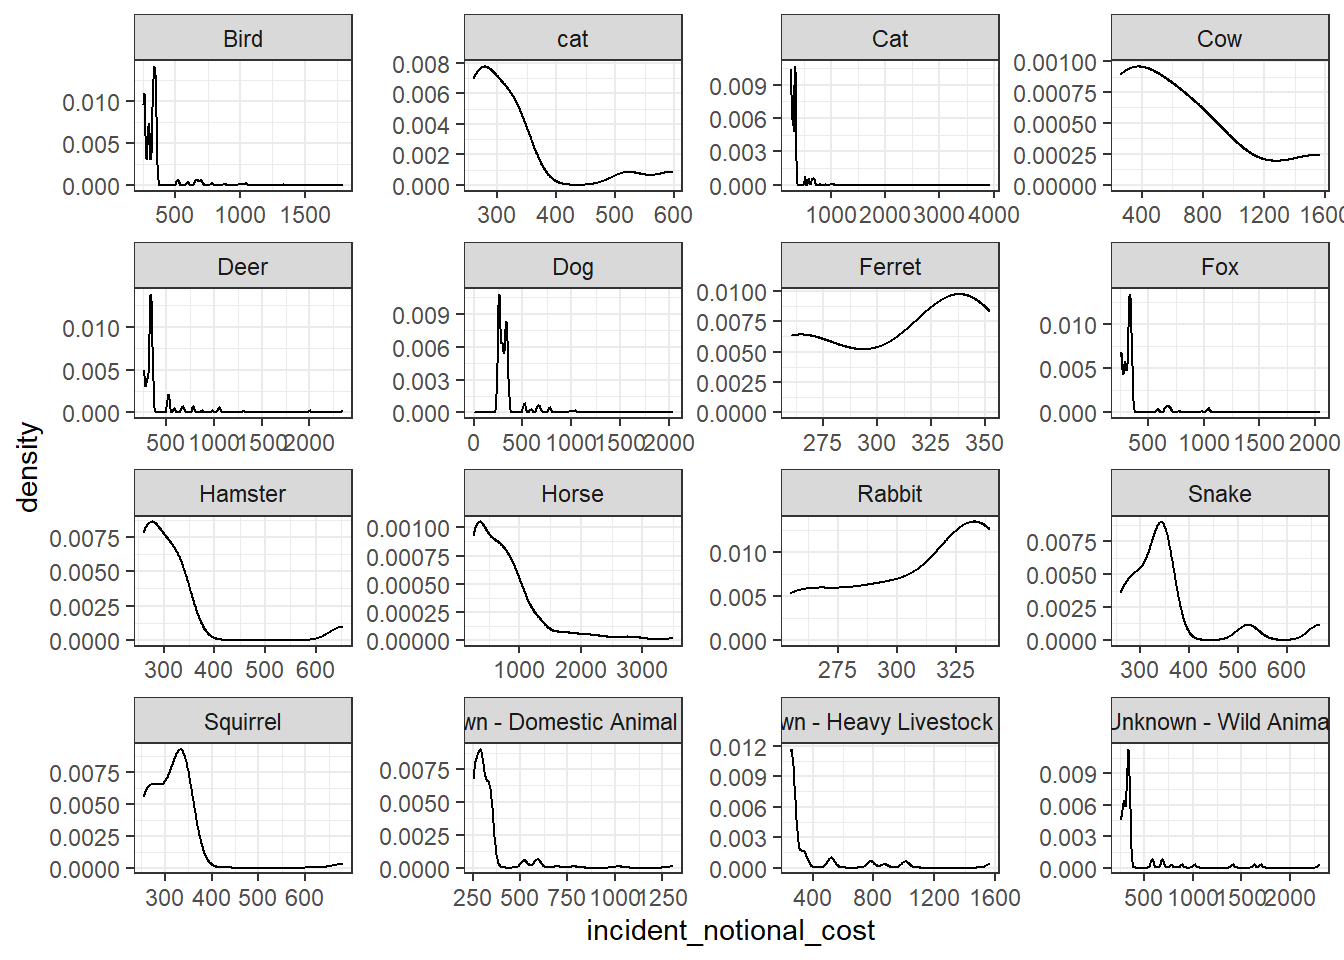
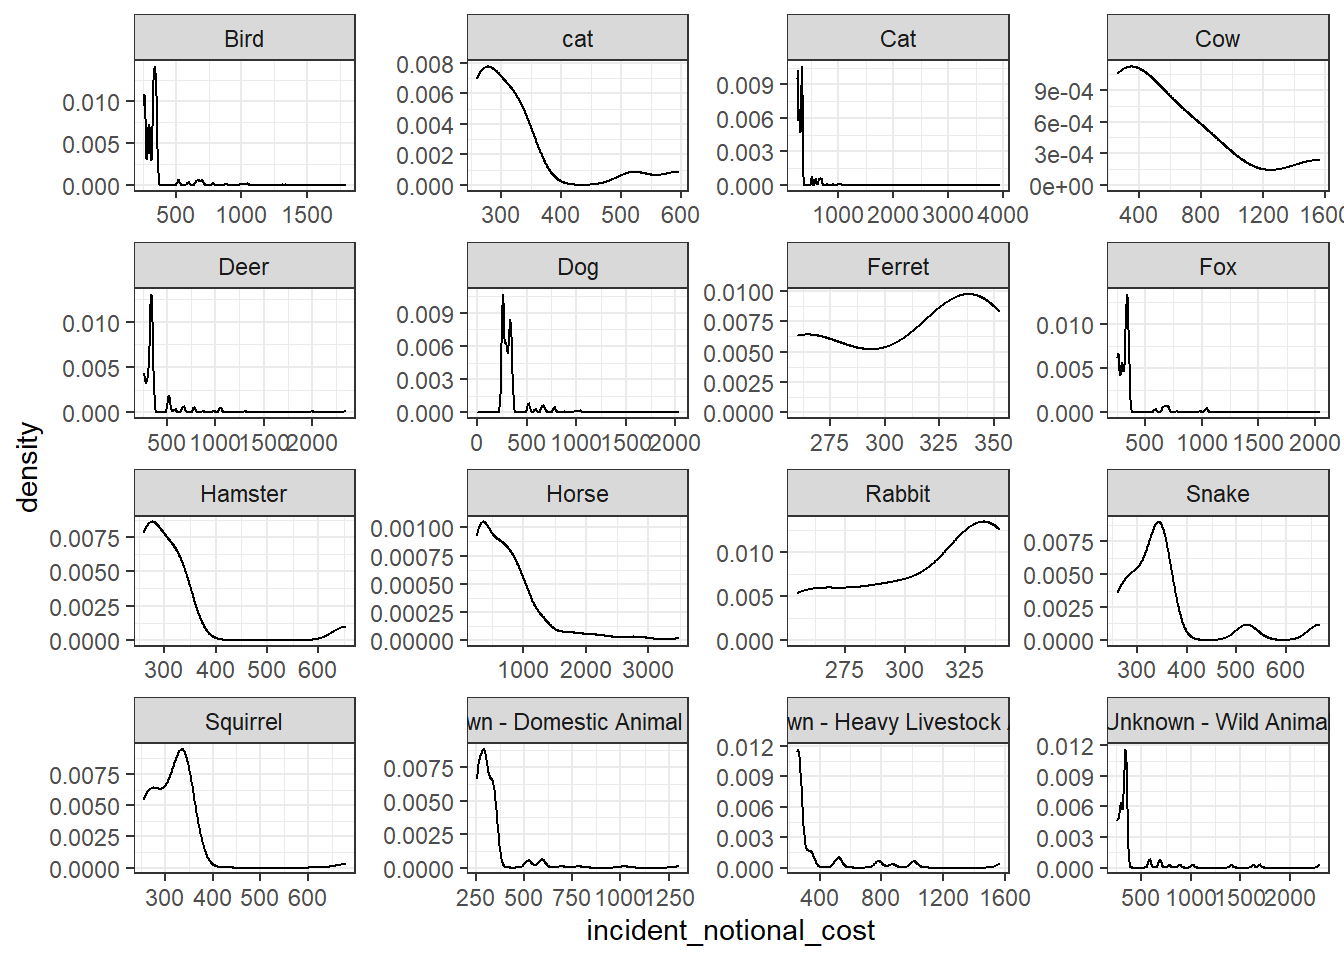
change

diff --git a/content/blogs/Chuhan_Zhang_pre_programme_assignment.html b/content/blogs/Chuhan_Zhang_pre_programme_assignment.html
@@ -2,13 +2,11 @@
 categories:
 - ""
 - ""
-date: "2017-10-31T22:42:51-05:00"
-description: Nullam et orci eu lorem consequat tincidunt vivamus et sagittis magna
-  sed nunc rhoncus condimentum sem. In efficitur ligula tate urna. Maecenas massa
-  sed magna lacinia magna pellentesque lorem ipsum dolor. Nullam et orci eu lorem
-  consequat tincidunt. Vivamus et sagittis tempus.
+date: "2017-10-31T21:28:43-05:00"
+description: Look at my first data analytics project at LBS!
 draft: false
 keywords: ""
+image: pic07.jpg
 slug: pre_programme
 title: Pre-programme project
 ---
@@ -176,7 +174,7 @@ animal_rescue &lt;- read_csv(url,
 
 
 glimpse(animal_rescue)</code></pre>
-<pre><code>## Rows: 7,772
+<pre><code>## Rows: 7,873
 ## Columns: 31
 ## $ incident_number               &lt;chr&gt; &quot;139091&quot;, &quot;275091&quot;, &quot;2075091&quot;, &quot;2872091&quot;~
 ## $ date_time_of_call             &lt;chr&gt; &quot;01/01/2009 03:01&quot;, &quot;01/01/2009 08:51&quot;, ~
@@ -199,9 +197,9 @@ glimpse(animal_rescue)</code></pre>
 ## $ borough_code                  &lt;chr&gt; &quot;E09000008&quot;, &quot;E09000008&quot;, &quot;E09000029&quot;, &quot;~
 ## $ borough                       &lt;chr&gt; &quot;Croydon&quot;, &quot;Croydon&quot;, &quot;Sutton&quot;, &quot;Hilling~
 ## $ stn_ground_name               &lt;chr&gt; &quot;Norbury&quot;, &quot;Woodside&quot;, &quot;Wallington&quot;, &quot;Ru~
-## $ uprn                          &lt;chr&gt; &quot;NULL&quot;, &quot;NULL&quot;, &quot;NULL&quot;, &quot;100021491149&quot;, ~
+## $ uprn                          &lt;chr&gt; &quot;NULL&quot;, &quot;NULL&quot;, &quot;NULL&quot;, &quot;100021491149.00~
 ## $ street                        &lt;chr&gt; &quot;Waddington Way&quot;, &quot;Grasmere Road&quot;, &quot;Mill~
-## $ usrn                          &lt;chr&gt; &quot;20500146&quot;, &quot;NULL&quot;, &quot;NULL&quot;, &quot;21401484&quot;, ~
+## $ usrn                          &lt;chr&gt; &quot;20500146.00&quot;, &quot;NULL&quot;, &quot;NULL&quot;, &quot;21401484~
 ## $ postcode_district             &lt;chr&gt; &quot;SE19&quot;, &quot;SE25&quot;, &quot;SM5&quot;, &quot;UB9&quot;, &quot;RM3&quot;, &quot;RM~
 ## $ easting_m                     &lt;chr&gt; &quot;NULL&quot;, &quot;534785&quot;, &quot;528041&quot;, &quot;504689&quot;, &quot;N~
 ## $ northing_m                    &lt;chr&gt; &quot;NULL&quot;, &quot;167546&quot;, &quot;164923&quot;, &quot;190685&quot;, &quot;N~
@@ -228,7 +226,7 @@ glimpse(animal_rescue)</code></pre>
 ## 10     2018   610
 ## 11     2019   604
 ## 12     2020   758
-## 13     2021   547</code></pre>
+## 13     2021   648</code></pre>
 <pre class="r"><code>animal_rescue %&gt;% 
   count(cal_year, name=&quot;count&quot;)</code></pre>
 <pre><code>## # A tibble: 13 x 2
@@ -246,7 +244,7 @@ glimpse(animal_rescue)</code></pre>
 ## 10     2018   610
 ## 11     2019   604
 ## 12     2020   758
-## 13     2021   547</code></pre>
+## 13     2021   648</code></pre>
 <p>Let us try to see how many incidents we have by animal group. Again, we can do this either using group_by() and summarise(), or by using count()</p>
 <pre class="r"><code>animal_rescue %&gt;% 
   group_by(animal_group_parent) %&gt;% 
@@ -263,15 +261,15 @@ glimpse(animal_rescue)</code></pre>
 <pre><code>## # A tibble: 28 x 3
 ##    animal_group_parent              count percent
 ##    &lt;chr&gt;                            &lt;int&gt;   &lt;dbl&gt;
-##  1 Cat                               3736   48.1 
-##  2 Bird                              1611   20.7 
-##  3 Dog                               1213   15.6 
-##  4 Fox                                366    4.71
-##  5 Unknown - Domestic Animal Or Pet   199    2.56
-##  6 Horse                              195    2.51
-##  7 Deer                               132    1.7 
-##  8 Unknown - Wild Animal               93    1.2 
-##  9 Squirrel                            66    0.85
+##  1 Cat                               3783   48.0 
+##  2 Bird                              1631   20.7 
+##  3 Dog                               1230   15.6 
+##  4 Fox                                373    4.74
+##  5 Unknown - Domestic Animal Or Pet   201    2.55
+##  6 Horse                              195    2.48
+##  7 Deer                               136    1.73
+##  8 Unknown - Wild Animal               94    1.19
+##  9 Squirrel                            68    0.86
 ## 10 Unknown - Heavy Livestock Animal    50    0.64
 ## # ... with 18 more rows</code></pre>
 <pre class="r"><code>animal_rescue %&gt;% 
@@ -284,15 +282,15 @@ glimpse(animal_rescue)</code></pre>
 <pre><code>## # A tibble: 28 x 3
 ##    animal_group_parent              count percent
 ##    &lt;chr&gt;                            &lt;int&gt;   &lt;dbl&gt;
-##  1 Cat                               3736   48.1 
-##  2 Bird                              1611   20.7 
-##  3 Dog                               1213   15.6 
-##  4 Fox                                366    4.71
-##  5 Unknown - Domestic Animal Or Pet   199    2.56
-##  6 Horse                              195    2.51
-##  7 Deer                               132    1.7 
-##  8 Unknown - Wild Animal               93    1.2 
-##  9 Squirrel                            66    0.85
+##  1 Cat                               3783   48.0 
+##  2 Bird                              1631   20.7 
+##  3 Dog                               1230   15.6 
+##  4 Fox                                373    4.74
+##  5 Unknown - Domestic Animal Or Pet   201    2.55
+##  6 Horse                              195    2.48
+##  7 Deer                               136    1.73
+##  8 Unknown - Wild Animal               94    1.19
+##  9 Squirrel                            68    0.86
 ## 10 Unknown - Heavy Livestock Animal    50    0.64
 ## # ... with 18 more rows</code></pre>
 <p>Do you see anything strange in these tables?</p>

diff --git a/content/blogs/blog2.html b/content/blogs/blog2.html
@@ -1,0 +1,49 @@
+---
+categories:
+- ""
+- ""
+date: "2017-10-31T21:28:43-05:00"
+description: My first month at London 
+draft: false
+image: pic12.jpg
+keywords: ""
+slug: my_life
+title: My first month at London
+---
+
+<script src="/rmarkdown-libs/header-attrs/header-attrs.js"></script>
+
+
+<p>My life at London begin at 28th August…</p>
+<div id="leaving-china" class="section level3">
+<h3>Leaving China</h3>
+<p><img src="/img/blogs/plane.jpg" width="60%" /></p>
+</div>
+<div id="welcome-to-the-orientation-at-lbs" class="section level3">
+<h3>Welcome to the orientation at LBS!</h3>
+<p><img src="/img/blogs/orientation.jpg" width="60%" /></p>
+</div>
+<div id="bus-tour" class="section level3">
+<h3>Bus tour!</h3>
+<p><img src="/img/blogs/bus.jpg" width="60%" /></p>
+</div>
+<div id="english-breakfast" class="section level3">
+<h3>English breakfast</h3>
+<p><img src="/img/blogs/brunch.jpg" width="60%" /></p>
+</div>
+<div id="standing-towards-the-garden-and-listening-the-songs-in-rain" class="section level3">
+<h3>Standing towards the garden and listening the songs in rain</h3>
+<p><img src="/img/blogs/grass.jpg" width="60%" /></p>
+</div>
+<div id="london-eye" class="section level3">
+<h3>London eye</h3>
+<p><img src="/img/blogs/london_eye.jpg" width="60%" /></p>
+</div>
+<div id="london-bridge" class="section level3">
+<h3>London bridge!</h3>
+<p><img src="/img/blogs/bridge.jpg" width="60%" /></p>
+</div>
+<div id="first-photo-with-friends" class="section level3">
+<h3>First photo with friends</h3>
+<p><img src="/img/blogs/friend.jpg" width="60%" /></p>
+</div>

diff --git a/content/blogs/homework2_Group8_chuhan.html b/content/blogs/homework2_Group8_chuhan.html
@@ -5,7 +5,7 @@ categories:
 date: "2017-10-31T21:28:43-05:00"
 description: ""
 draft: false
-image: ""
+image: "pic09.jpg"
 keywords: ""
 slug: project2
 title: Project II:Excess rentals in TfL bike sharing
@@ -38,10 +38,7 @@ bike &lt;- bike0 %&gt;%
           month = lubridate::month(day, label = TRUE),
           week = isoweek(day))</code></pre>
 <p>We can easily create a facet grid that plots bikes hired by month and year.</p>
-<p><img src="C:/Users/apple/Desktop/my_website/images/tfl_distributions_monthly.png" width="100%" style="display: block; margin: auto;" /></p>
 <p>We can see that in the month of May and June 2020, bike rentals went down immensely, compared to previous years. This can be attributed to the national lockdowns that were enforced due to the COVID-19 pandemic during that time.</p>
-<p>We will recreate the following graph:</p>
-<p><img src="C:/Users/apple/Desktop/my_website/images/tfl_monthly.png" width="100%" style="display: block; margin: auto;" /></p>
 <pre class="r"><code> general_monthly_average &lt;- bike %&gt;% 
   filter(year&gt;=2016 &amp; year&lt;=2019) %&gt;% 
   group_by(month) %&gt;%

diff --git a/content/blogs/homework1_Chuhan.html b/content/blogs/homework1_Chuhan.html
@@ -2,10 +2,10 @@
 categories:
 - ""
 - ""
-date: "2017-10-31T22:26:09-05:00"
-description: Lorem Etiam Nullam
+date: "2017-10-31T21:28:43-05:00"
+description: ""
 draft: false
-keywords: ""
+keywords: "pic08.jpg"
 slug: project1
 title: Project I -- German Elections 
 ---

diff --git a/content/blogs/homework3_Chuhan_PART.html b/content/blogs/homework3_Chuhan_PART.html
@@ -5,7 +5,7 @@ categories:
 date: "2017-10-31T21:28:43-05:00"
 description: ""
 draft: false
-image: ""
+image: "pic10.jpg"
 keywords: ""
 slug: project3
 title: Project III--GDP components over time and among countries

diff --git a/content/blogs/resume.md b/content/blogs/resume.md
@@ -2,11 +2,8 @@
 categories:
 - ""
 - ""
-date: "2017-10-31T22:26:13-05:00"
-description: Nullam et orci eu lorem consequat tincidunt vivamus et sagittis magna
-  sed nunc rhoncus condimentum sem. In efficitur ligula tate urna. Maecenas massa
-  sed magna lacinia magna pellentesque lorem ipsum dolor. Nullam et orci eu lorem
-  consequat tincidunt. Vivamus et sagittis tempus.
+date: "2017-10-31T21:28:43-05:00"
+description: Hello World! This is Chuhan Zhang
 draft: false
 image: Chuhan Zhang-Resume1.jpg
 keywords: ""

diff --git a/content/blogs/blog1.md b/content/blogs/blog1.md
@@ -5,7 +5,7 @@ categories:
 date: "2017-10-31T21:28:43-05:00"
 description: ""
 draft: false
-image: pic10.jpg
+image: pic11.jpg
 keywords: ""
 slug: about_me
 title: About me
